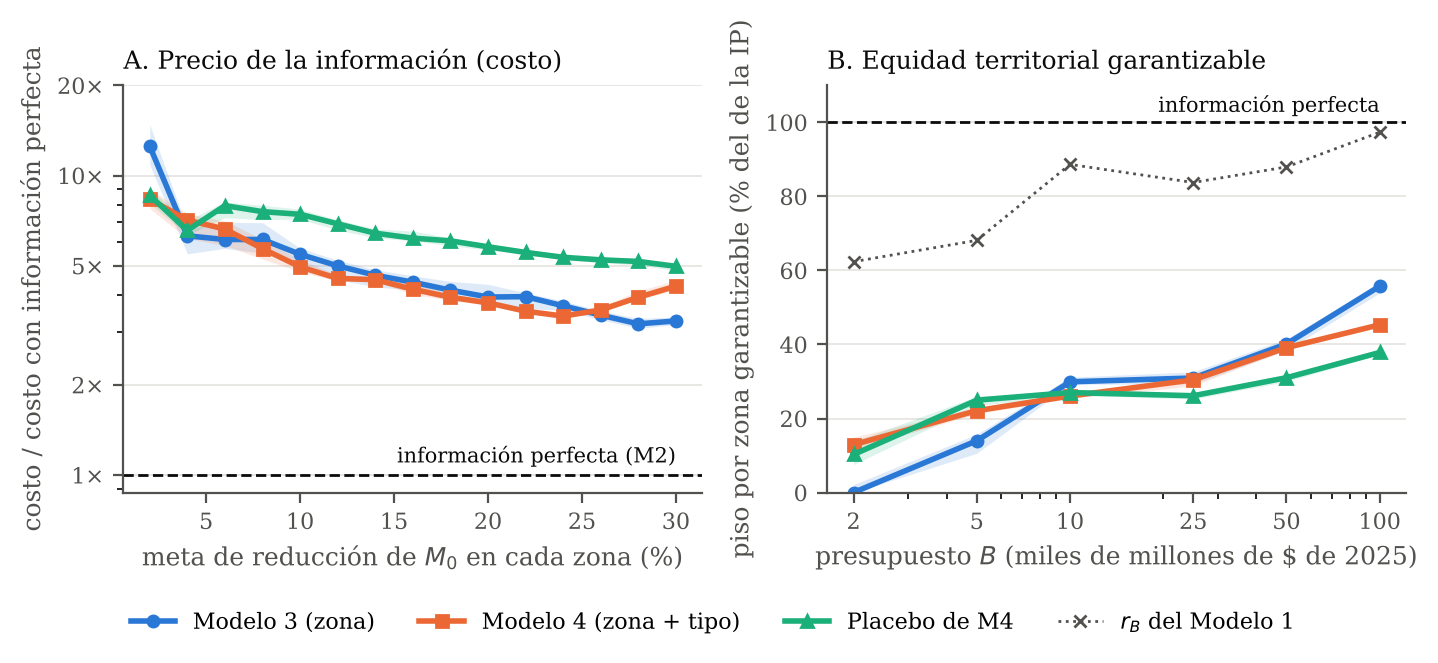
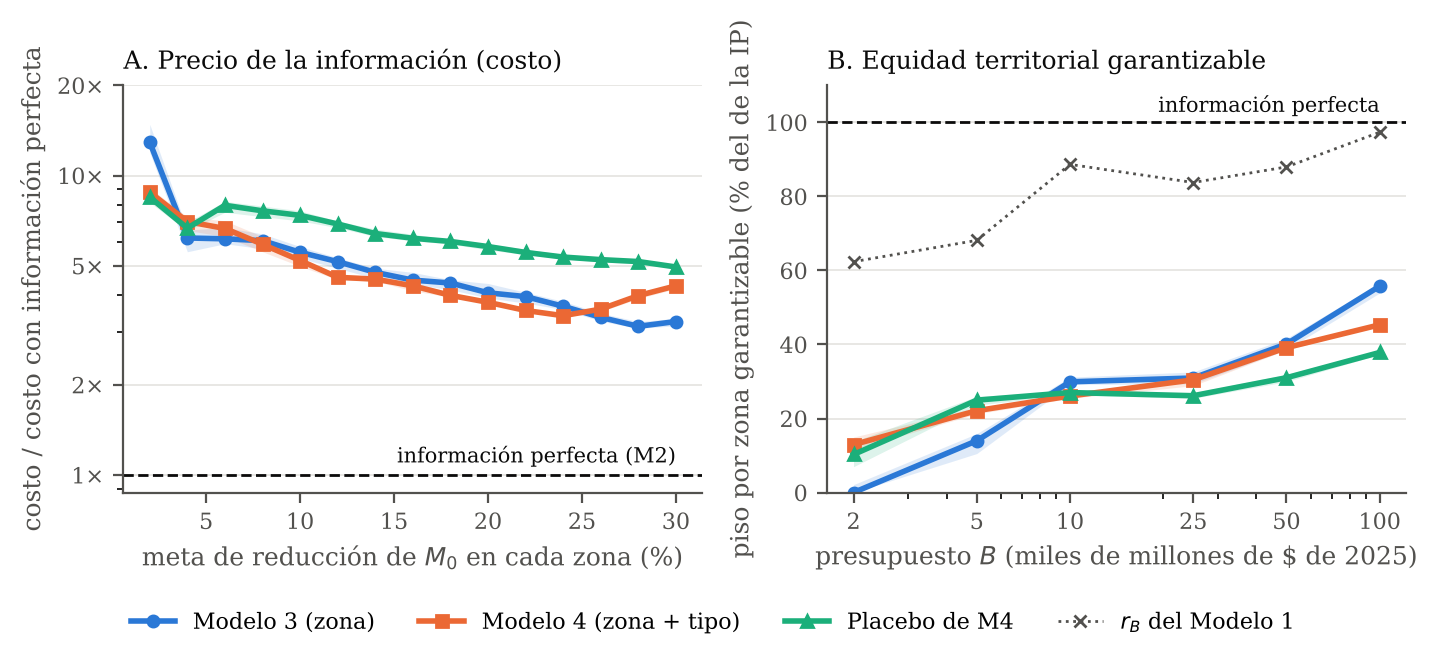
Paper: criterio de costo con 100 réplicas; tablas, figura, cifras y texto actualizados

Changed region(s): [[0.0918, 0.2112, 0.459, 0.5128], [0.2448, 0.3318, 0.306, 0.362]]

diff --git a/paper/secciones/10_resultados_3_4.tex b/paper/secciones/10_resultados_3_4.tex
@@ -56,12 +56,13 @@ cierra con metas grandes porque para cumplirlas hay que llegar a casi todos los
 pobres de todas formas: la información sirve para elegir a quién atender
 primero, y pierde valor cuando hay que atender a casi todos.
 
-\paragraph{Con la meta en cada zona, el tipo de hogar no supera a la zona.} El
-cociente pareado M4/M3 ronda 1. Su intervalo queda por debajo de 1 en
-\zMcuatroMtresMenor{} de las 15 metas, por encima en \zMcuatroMtresMayor{} (las
-del 28 y el 30\,\%, en las que el M4 cuesta un 21 y un 29\,\% más) y contiene el
-1 en las otras \zMcuatroMtresIgual{}. La única ventaja clara del M4 está en la
-meta del 2\,\% (0,64).
+\paragraph{Con la meta en cada zona, el tipo de hogar apenas mejora a la zona.}
+El cociente pareado M4/M3 queda cerca de 1. Su intervalo queda por debajo de 1
+en \zMcuatroMtresMenor{} de las 15 metas (la del 2\,\% y las del 10 al
+24\,\%), contiene el 1 en \zMcuatroMtresIgual{} (las del 4 al 8\,\%) y queda por
+encima en \zMcuatroMtresMayor{} (las del 26 al 30\,\%, en las que el M4 cuesta
+entre un 7 y un 30\,\% más). La única ventaja grande del M4 está en la meta del
+2\,\% (0,64); en las del 10 al 24\,\% cuesta entre un 4 y un 11\,\% menos.
 
 \paragraph{Pero la demografía sí reemplaza a la geografía.} El placebo, que
 reparte los indicadores privados en celdas al azar, es mucho más caro que el
@@ -69,7 +70,7 @@ M4: desde la meta del 6\,\% el M4 cuesta entre un \zPlacMin{} y un \zPlacMax{}
 menos, con intervalos que excluyen el 1. La razón es que la meta se exige en
 cada zona. El M3 puede dirigir la cobertura de cualquier indicador a la zona
 rural, donde está la mayor parte de la pobreza, y lo hace: desde la meta del
-8\,\% pone allí entre el 65 y el 78\,\% del gasto. El placebo no puede, porque sus
+8\,\% pone allí entre el 65 y el 79\,\% del gasto. El placebo no puede, porque sus
 celdas mezclan las tres zonas en la misma proporción que la población: la mitad
 de su gasto cae en la cabecera en todas las metas, y para cumplir la meta rural
 tiene que comprar cobertura en todas partes. El M4 también mezcla zonas, pero sus
@@ -97,7 +98,7 @@ Meta & M3 & M4 & Plac. & M3 & M4 & Plac. & M3 & M4 & Plac. \\
 
 La Tabla~\ref{tab:gasto} muestra además que la meta por zona adelanta la
 entrada de la educación. Con la meta del 10\,\%, el M4 y el placebo ya gastan
-más del 70\,\% en educación y el M3 el 38\,\%; con la meta del 2\,\%, los tres
+más del 70\,\% en educación y el M3 el 32\,\%; con la meta del 2\,\%, los tres
 gastan al menos el 90\,\% en salud (aseguramiento y barreras de acceso). En ningún
 modelo el gasto en niñez y vivienda, ni el de trabajo, pasa del 3\,\%.
 

diff --git a/paper/cifras.tex b/paper/cifras.tex
@@ -72,22 +72,22 @@
 % ===== Comparación principal (12-nov): restricciones de equidad de Martín tal cual =====
 % Criterio de costo con meta de M0 en cada zona. Fuente: resultados/m34/costo_meta_zona_crudo_12nov.csv e
 % ic_costo_meta_zona_12nov.csv (m34_tablas_12nov.py); IP = info_perfecta_meta_zona_12nov.csv (M2 sin E-7).
-\newcommand{\zReplicas}{54}
-\newcommand{\zCorridas}{2.430}
+\newcommand{\zReplicas}{100}
+\newcommand{\zCorridas}{4.500}
 \newcommand{\zGapMax}{$8{,}8\times10^{-7}$}
-\newcommand{\zMtresIPmin}{3,2}            % M3/IP, mínimo (meta 28 %)
-\newcommand{\zMtresIPmax}{12,5}           % M3/IP, máximo (meta 2 %)
-\newcommand{\zMtresIPbaja}{5,5 a 12,5}    % metas del 2 al 10 %
-\newcommand{\zMtresIPalta}{3,2 a 3,9}     % metas del 20 al 30 %
+\newcommand{\zMtresIPmin}{3,1}            % M3/IP, mínimo (meta 28 %)
+\newcommand{\zMtresIPmax}{12,9}           % M3/IP, máximo (meta 2 %)
+\newcommand{\zMtresIPbaja}{5,5 a 12,9}    % metas del 2 al 10 %
+\newcommand{\zMtresIPalta}{3,1 a 4,1}     % metas del 20 al 30 %
 \newcommand{\zMcuatroIPmin}{3,4}
-\newcommand{\zMcuatroIPmax}{8,3}
-\newcommand{\zMcuatroMtresMenor}{5}       % metas con IC de M4/M3 < 1 (2, 12, 20, 22, 24 %)
-\newcommand{\zMcuatroMtresMayor}{2}       % metas con IC de M4/M3 > 1 (28, 30 %)
-\newcommand{\zMcuatroMtresIgual}{8}
+\newcommand{\zMcuatroIPmax}{8,8}
+\newcommand{\zMcuatroMtresMenor}{9}       % metas con IC de M4/M3 < 1 (2, 10-24 %)
+\newcommand{\zMcuatroMtresMayor}{3}       % metas con IC de M4/M3 > 1 (26, 28, 30 %)
+\newcommand{\zMcuatroMtresIgual}{3}
 \newcommand{\zPlacMin}{14\,\%}            % M4 más barato que el placebo, desde la meta del 6 %
-\newcommand{\zPlacMax}{37\,\%}
-\newcommand{\zInclMtres}{27 y 55\,\%}     % inclusión mediana por meta, M3
-\newcommand{\zInclMcuatro}{21 y 49\,\%}
+\newcommand{\zPlacMax}{38\,\%}
+\newcommand{\zInclMtres}{26 y 55\,\%}     % inclusión mediana por meta, M3
+\newcommand{\zInclMcuatro}{18 y 50\,\%}
 \newcommand{\zExclMtres}{56 y 93\,\%}
 \newcommand{\zIPzonaDiez}{5,17}           % IP (M2) con meta del 10 % por zona
 \newcommand{\cIPglobalDiez}{1,32}         % IP (M2) con meta global del 10 % (10-nov)

diff --git a/paper/tablas/costos_zona.tex b/paper/tablas/costos_zona.tex
@@ -1,8 +1,8 @@
-2\,\% & 0,47 & 5,91 & 3,93 & 4,05 & 12,5 & 8,3 & 0,64 (0,55--0,73) & 0,94 (0,90--1,04) \\
-6\,\% & 2,30 & 14,09 & 15,27 & 18,28 & 6,1 & 6,6 & 1,04 (0,94--1,14) & 0,84 (0,76--0,93) \\
-10\,\% & 5,17 & 28,23 & 25,64 & 38,40 & 5,5 & 5,0 & 0,92 (0,85--1,00) & 0,68 (0,63--0,71) \\
-14\,\% & 8,97 & 41,68 & 40,27 & 57,57 & 4,6 & 4,5 & 0,99 (0,91--1,05) & 0,68 (0,67--0,70) \\
-18\,\% & 13,56 & 56,16 & 53,18 & 82,03 & 4,1 & 3,9 & 0,94 (0,89--1,01) & 0,65 (0,63--0,67) \\
-20\,\% & 16,11 & 63,32 & 60,54 & 93,17 & 3,9 & 3,8 & 0,95 (0,86--0,98) & 0,65 (0,62--0,66) \\
-24\,\% & 22,04 & 80,94 & 74,77 & 117,52 & 3,7 & 3,4 & 0,91 (0,88--0,94) & 0,63 (0,62--0,65) \\
-30\,\% & 32,37 & 105,81 & 138,28 & 161,06 & 3,3 & 4,3 & 1,29 (1,24--1,35) & 0,86 (0,84--0,89) \\
+2\,\% & 0,47 & 6,10 & 4,15 & 4,00 & 12,9 & 8,8 & 0,64 (0,59--0,72) & 1,00 (0,92--1,11) \\
+6\,\% & 2,30 & 14,16 & 15,34 & 18,33 & 6,1 & 6,7 & 1,04 (0,96--1,11) & 0,83 (0,76--0,90) \\
+10\,\% & 5,17 & 28,67 & 26,91 & 38,09 & 5,5 & 5,2 & 0,90 (0,83--0,97) & 0,70 (0,66--0,73) \\
+14\,\% & 8,97 & 42,61 & 40,44 & 57,43 & 4,8 & 4,5 & 0,96 (0,93--1,00) & 0,69 (0,68--0,72) \\
+18\,\% & 13,56 & 59,33 & 53,95 & 81,65 & 4,4 & 4,0 & 0,92 (0,86--0,97) & 0,66 (0,64--0,68) \\
+20\,\% & 16,11 & 65,41 & 60,79 & 93,33 & 4,1 & 3,8 & 0,92 (0,87--0,97) & 0,65 (0,64--0,67) \\
+24\,\% & 22,04 & 80,65 & 74,99 & 117,73 & 3,7 & 3,4 & 0,92 (0,90--0,95) & 0,62 (0,62--0,64) \\
+30\,\% & 32,37 & 105,34 & 138,61 & 160,24 & 3,3 & 4,3 & 1,30 (1,28--1,37) & 0,86 (0,84--0,88) \\

diff --git a/paper/secciones/08_diseno_experimental.tex b/paper/secciones/08_diseno_experimental.tex
@@ -123,10 +123,10 @@ media, se obtiene $n\ge (1{,}96\,\mathrm{CV}/e)^2$, donde $\mathrm{CV}$ es el
 coeficiente de variación entre réplicas. La
 variabilidad entre réplicas depende mucho de la meta y del presupuesto. Con el
 criterio de costo y la meta en cada zona usamos \zReplicas{} réplicas: el
-coeficiente de variación del M3 llega a 0,41 con la meta del 2\,\%, y el IC de
-la mediana queda dentro de $\pm 16\,\%$ con esa meta, de $\pm 12\,\%$ hasta la
-del 8\,\% y de $\pm 8\,\%$ desde la del 10\,\%; el del M4 y el placebo, dentro
-de $\pm 10\,\%$ en todas. Con el criterio de cobertura usamos 100 réplicas con
+coeficiente de variación del M3 llega a 0,43 con la meta del 2\,\%, y el IC de
+la mediana queda dentro de $\pm 15\,\%$ con esa meta, de $\pm 10\,\%$ con la
+del 4\,\% y de $\pm 9\,\%$ desde la del 6\,\%; el del M4 y el placebo, dentro
+de $\pm 7\,\%$ en todas. Con el criterio de cobertura usamos 100 réplicas con
 $B\le\$10$~mm y 30 con $B\ge\$25$~mm, y 100 en el piso máximo garantizable. En
 la sensibilidad sin equidad territorial usamos 100 réplicas en el criterio de
 costo (IC de la mediana dentro de $\pm 10\,\%$) y las mismas del criterio de

diff --git a/paper/secciones/00_resumen.tex b/paper/secciones/00_resumen.tex
@@ -21,9 +21,9 @@ por zona cuesta entre \zMtresIPbaja{} veces lo necesario. Con un presupuesto
 fijo, ningún sorteo permite cumplir el piso por zona que garantiza la
 información perfecta, y el piso que sí se puede garantizar llega a lo sumo a
 algo más de la mitad del de la información perfecta. Focalizar por tipo de hogar
-cuesta lo mismo que hacerlo por zona, y hasta un \zPlacMax{} menos que un placebo
-con la misma partición: la demografía reemplaza a la geografía, pero no la
-mejora. Entre el 21 y el 55\,\% del gasto llega a hogares no pobres. Mejorar la información para focalizar puede rendir más que ampliar los
+cuesta casi lo mismo que hacerlo por zona, y hasta un \zPlacMax{} menos que un placebo
+con la misma partición: la demografía reemplaza a la geografía, pero apenas la
+mejora. Entre el 18 y el 55\,\% del gasto llega a hogares no pobres. Mejorar la información para focalizar puede rendir más que ampliar los
 presupuestos.
 
 \medskip\noindent\textbf{Palabras clave:} pobreza multidimensional, Alkire--Foster,

diff --git a/paper/secciones/11_comparacion.tex b/paper/secciones/11_comparacion.tex
@@ -40,9 +40,10 @@ $r_B$. Un Estado que no sabe quién es pobre no solo gasta más: tampoco puede
 asegurar que la reducción de la pobreza llegue a cada zona en la proporción que
 podría con información perfecta.
 
-\paragraph{3. La información demográfica vale lo que la geográfica, no más.}
-Con la meta en cada zona, el M4 cuesta lo mismo que el M3 en la mayoría de las
-metas, y entre un \zPlacMin{} y un \zPlacMax{} menos que un placebo con su
+\paragraph{3. La información demográfica vale casi lo mismo que la geográfica.}
+Con la meta en cada zona, el M4 cuesta algo menos que el M3 en las metas del 10
+al 24\,\% (entre un 4 y un 11\,\% menos), lo mismo en las del 4 al 8\,\% y más en
+las del 26 al 30\,\%, y entre un \zPlacMin{} y un \zPlacMax{} menos que un placebo con su
 misma partición. La comparación con el placebo muestra que los tipos de
 hogar sí contienen información útil, pero que con exigencias territoriales esa
 información solo compensa lo que se pierde al no focalizar los indicadores

diff --git a/paper/tablas/gasto_zona.tex b/paper/tablas/gasto_zona.tex
@@ -1,7 +1,7 @@
-2\,\% & 96 & 90 & 93 & 4 & 9 & 4 & 47 & 50 & 61 \\
-6\,\% & 77 & 44 & 52 & 19 & 55 & 46 & 33 & 45 & 53 \\
-10\,\% & 61 & 26 & 27 & 38 & 74 & 71 & 23 & 38 & 51 \\
-14\,\% & 46 & 19 & 18 & 52 & 80 & 81 & 19 & 42 & 51 \\
-20\,\% & 31 & 12 & 13 & 66 & 87 & 85 & 14 & 43 & 50 \\
-24\,\% & 30 & 14 & 10 & 68 & 86 & 89 & 12 & 44 & 50 \\
-30\,\% & 17 & 22 & 8 & 79 & 75 & 91 & 18 & 52 & 51 \\
+2\,\% & 93 & 91 & 95 & 6 & 8 & 4 & 50 & 52 & 62 \\
+6\,\% & 75 & 46 & 51 & 22 & 53 & 46 & 34 & 46 & 52 \\
+10\,\% & 67 & 24 & 27 & 32 & 75 & 72 & 23 & 38 & 50 \\
+14\,\% & 48 & 20 & 18 & 49 & 79 & 81 & 18 & 43 & 50 \\
+20\,\% & 27 & 13 & 13 & 70 & 87 & 86 & 13 & 44 & 50 \\
+24\,\% & 27 & 14 & 10 & 72 & 86 & 89 & 12 & 45 & 50 \\
+30\,\% & 19 & 22 & 8 & 77 & 75 & 91 & 18 & 52 & 51 \\

diff --git a/paper/secciones/13_conclusiones.tex b/paper/secciones/13_conclusiones.tex
@@ -21,7 +21,8 @@ pueden garantizar va de casi nada con presupuestos pequeños a entre el 45 y el
 56\,\% del de la información perfecta con los grandes.
 
 \paragraph{No toda información demográfica sirve.} Con metas por zona, focalizar
-por tipo de hogar cuesta lo mismo que focalizar por zona, y entre un \zPlacMin{} y un
+por tipo de hogar cuesta casi lo mismo que focalizar por zona (entre un 4 y un
+11\,\% menos con metas intermedias, más con las mayores), y entre un \zPlacMin{} y un
 \zPlacMax{} menos que una partición al azar del mismo tamaño. Sin metas por
 zona, el tipo de hogar es más barato que la zona, pero con metas modestas la
 mejora se debe a la partición más fina: el placebo logra lo mismo. La

diff --git a/paper/secciones/12_discusion.tex b/paper/secciones/12_discusion.tex
@@ -39,7 +39,7 @@ metas por zona, la granularidad basta: el M4 es más barato que el M3, pero no
 que una partición al azar. Con metas por zona, la granularidad sin contenido
 estorba, porque las celdas al azar mezclan las zonas y el gasto no se puede
 dirigir a la zona rural; ahí solo una partición con contenido (la geográfica o
-la demográfica) evita el sobrecosto, y las dos rinden más o menos lo mismo.
+la demográfica) evita el sobrecosto, y las dos rinden casi lo mismo.
 
 Para el diseño de programas, esto implica que no existe una variable de
 focalización buena para todo. Antes de focalizar un programa por tipo de hogar

diff --git a/paper/tablas/rmax.tex b/paper/tablas/rmax.tex
@@ -2,5 +2,5 @@
 5 & 7,3 & 10,7 & 1,5 (1,1--1,7) & 2,4 (2,3--2,5) & 2,7 & 4,9 \\
 10 & 14,6 & 16,5 & 4,9 (4,8--5,1) & 4,3 (4,2--4,4) & 4,5 & 8,3 \\
 25 & 23,8 & 28,4 & 8,8 (8,4--9,3) & 8,7 (8,2--9,0) & 7,4 & 13,1 \\
-50 & 34,4 & 39,1 & 15,7 (15,0--16,3) & 15,3 (15,1--15,7) & 12,1 & 20,8 \\
-100 & 52,2 & 53,6 & 29,9 (28,9--30,4) & 24,3 (24,2--24,5) & 20,3 & 32,2 \\
+50 & 34,4 & 39,1 & 15,7 (15,1--16,3) & 15,3 (15,1--15,7) & 12,1 & 20,8 \\
+100 & 52,2 & 53,6 & 29,9 (28,9--30,4) & 24,3 (24,1--24,5) & 20,3 & 32,2 \\
